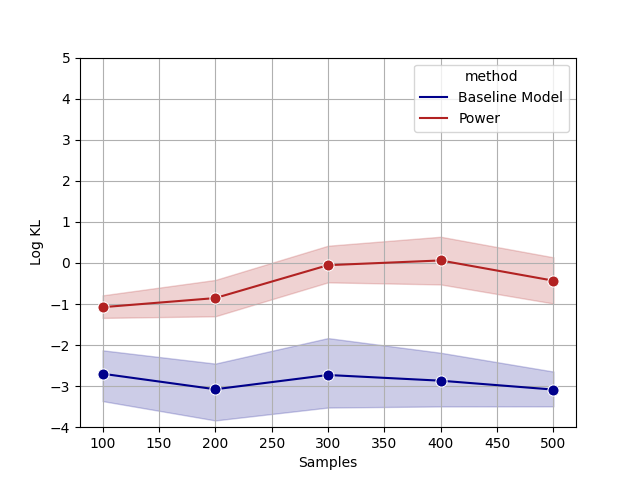
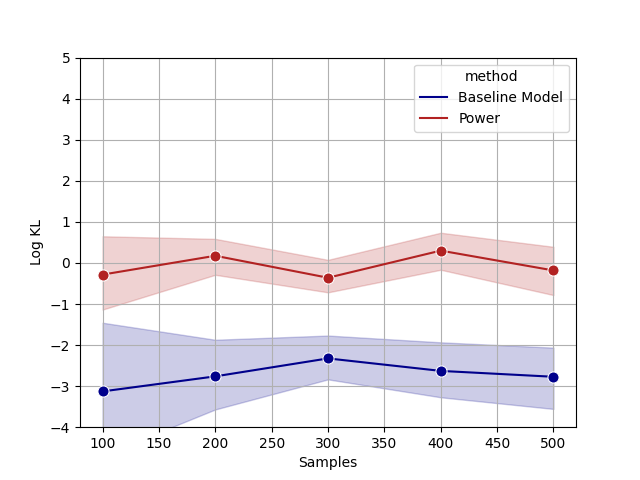
updated queueing and vpm
vpm - architecture changed - open to modifications

Changed region(s): [[0.1562, 0.4688, 0.875, 0.9062]]

diff --git a/queueing.py b/queueing.py
@@ -99,11 +99,12 @@ def ground_truth_queueing_stationary(qa, qf, max_state):
 '''
 
 def generate_plots(qa, qf, min_val, max_val, increment, runs, plot_name, constant_factor=40, run_biased=False):
-	_lambda = 1
+	np.random.seed(101)
+	_lambda = 10
 	M = 20
 	alpha_theta = 0.01
 	alpha_v = 0.01
-	beta1 = 0.5
+	beta1 = 0.999
 	T = 5
 	rho = (qa*(1-qf))/(qf*(1-qa))
 	B = int(np.ceil(constant_factor*rho))
@@ -118,7 +119,8 @@ def generate_plots(qa, qf, min_val, max_val, increment, runs, plot_name, constan
 			else:
 				state_seq, max_state = sample_nsteps(n=transition_samples, qa=qa, qf=qf)
 			D = np.array(state_seq)
-			tau = vpm.iterative_vpm(D, alpha_theta, alpha_v, T, M, B, _lambda, max_state, beta1)
+			tau = vpm.iterative_vpm(D, alpha_theta, alpha_v, T, M, B=B, _lambda=_lambda,
+						    		max_state=max_state, beta1=beta1)
 			estimated_vpm = vpm.get_density(tau, max_state)
 			# estimated_vpm = esd.estimate_stationary(D, max_state)
 
@@ -128,10 +130,10 @@ def generate_plots(qa, qf, min_val, max_val, increment, runs, plot_name, constan
 			true = ground_truth_queueing_stationary(qa, qf, max_state)
 			log_kl = np.log(scipy.stats.entropy(estimated, true))
 			log_kl_vpm = np.log(scipy.stats.entropy(estimated_vpm, true))
-			if (log_kl != float("inf") and log_kl_vpm != float("inf")):
+			if (log_kl not in {float("inf"),float("nan")} and not pd.isna(log_kl) and\
+	   			 log_kl_vpm not in {float("inf"), float("nan")} and not pd.isna(log_kl_vpm)):
 				num_runs+=1
 				print(f"On run {num_runs}")
-				#print(estimated, true)
 				log_kl_dict["method"].append("Baseline Model")
 				log_kl_dict["Samples"].append(transition_samples)
 				log_kl_dict["Log KL"].append(log_kl)
@@ -148,13 +150,14 @@ def generate_plots(qa, qf, min_val, max_val, increment, runs, plot_name, constan
 	fig.savefig(f"{plot_name}"+("_non_iid" if run_biased else "")+f"_states_{constant_factor}.png") 
 	
 def generate_plots_over_qf(qa, min_val, max_val,  runs, plot_name, constant_factor=40, run_biased=False):
+	np.random.seed(101)
 	log_kl_dict = {"method":[], "Prob": [], "Log KL":[]}
 	qfs = [np.round(min_val+(0.01)*i, 2) for i in range(int((max_val-min_val)/0.01 )+1)]
-	_lambda = 1
+	_lambda = 10
 	M = 20
 	alpha_theta = 0.01
 	alpha_v = 0.01
-	beta1 = 0.5
+	beta1 = 0.999
 	T = 5
 
 	for qf in qfs:
@@ -172,7 +175,7 @@ def generate_plots_over_qf(qa, min_val, max_val,  runs, plot_name, constant_fact
 				continue
 
 			D = np.array(state_seq)
-			tau = vpm.iterative_vpm(D, alpha_theta, alpha_v, T, M, B, _lambda, max_state, beta1)
+			tau = vpm.iterative_vpm(D, alpha_theta, alpha_v, T, M, B=B, _lambda=_lambda, max_state=max_state, beta1=beta1)
 			estimated_vpm = vpm.get_density(tau, max_state)
 
 			estimated = estimate_tabular_stationary(tabular_model, iters=200)
@@ -180,7 +183,8 @@ def generate_plots_over_qf(qa, min_val, max_val,  runs, plot_name, constant_fact
 			log_kl = np.log(scipy.stats.entropy(estimated, true))
 
 			log_kl_vpm = np.log(scipy.stats.entropy(estimated_vpm, true))
-			if (log_kl != float("inf") and log_kl_vpm != float("inf")):
+			if (log_kl not in {float("inf"),float("nan")} and not pd.isna(log_kl) and\
+	   			 log_kl_vpm not in {float("inf"), float("nan")} and not pd.isna(log_kl_vpm)):
 				num_runs+=1
 				print(f"On run {num_runs}")
 				log_kl_dict["method"].append("Baseline Model")
@@ -205,6 +209,7 @@ if __name__ == "__main__":
 	qf = 0.9
 
 	min_transitions, max_transitions = 100, 500
+	
 	runs = 10
 	"""	
 	sampled_transitions, max_state = sample_nsteps(n=2000, qa=qa, qf=qf)
@@ -220,25 +225,23 @@ if __name__ == "__main__":
 
 	print(log_kl)
 	"""
-
-	np.random.seed(101)
 	generate_plots(qa, qf, min_transitions, max_transitions, 100, runs, "figure2", constant_factor=40)
 	generate_plots_over_qf(qa, 0.82, 0.90, runs, "figure2_qf", constant_factor=40)
 	generate_plots(qa, qf, min_transitions, max_transitions, 100, runs, "figure2", run_biased=True,constant_factor=40)
 	generate_plots_over_qf(qa, 0.82, 0.90, runs, "figure2_qf", run_biased=True,constant_factor=40)
 
-	generate_plots(qa, qf, min_transitions, max_transitions, 100, runs, "figure2", constant_factor=30)
-	generate_plots_over_qf(qa, 0.82, 0.90, runs, "figure2_qf", constant_factor=30)
-	generate_plots(qa, qf, min_transitions, max_transitions, 100, runs, "figure2", run_biased=True,constant_factor=30)
-	generate_plots_over_qf(qa, 0.82, 0.90, runs, "figure2_qf", run_biased=True,constant_factor=30)
+	# generate_plots(qa, qf, min_transitions, max_transitions, 100, runs, "figure2", constant_factor=30)
+	# generate_plots_over_qf(qa, 0.82, 0.90, runs, "figure2_qf", constant_factor=30)
+	# generate_plots(qa, qf, min_transitions, max_transitions, 100, runs, "figure2", run_biased=True,constant_factor=30)
+	# generate_plots_over_qf(qa, 0.82, 0.90, runs, "figure2_qf", run_biased=True,constant_factor=30)
 
-	generate_plots(qa, qf, min_transitions, max_transitions, 100, runs, "figure2", constant_factor=20)
-	generate_plots_over_qf(qa, 0.82, 0.90, runs, "figure2_qf", constant_factor=20)
-	generate_plots(qa, qf, min_transitions, max_transitions, 100, runs, "figure2", run_biased=True,constant_factor=20)
-	generate_plots_over_qf(qa, 0.82, 0.90, runs, "figure2_qf", run_biased=True,constant_factor=20)
+	# generate_plots(qa, qf, min_transitions, max_transitions, 100, runs, "figure2", constant_factor=20)
+	# generate_plots_over_qf(qa, 0.82, 0.90, runs, "figure2_qf", constant_factor=20)
+	# generate_plots(qa, qf, min_transitions, max_transitions, 100, runs, "figure2", run_biased=True,constant_factor=20)
+	# generate_plots_over_qf(qa, 0.82, 0.90, runs, "figure2_qf", run_biased=True,constant_factor=20)
 
-	generate_plots(qa, qf, min_transitions, max_transitions, 100, runs, "figure2", constant_factor=10)
-	generate_plots_over_qf(qa, 0.82, 0.90, runs, "figure2_qf", constant_factor=10)
-	generate_plots(qa, qf, min_transitions, max_transitions, 100, runs, "figure2", run_biased=True,constant_factor=10)
-	generate_plots_over_qf(qa, 0.82, 0.90, runs, "figure2_qf", run_biased=True,constant_factor=10)
+	# generate_plots(qa, qf, min_transitions, max_transitions, 100, runs, "figure2", constant_factor=10)
+	# generate_plots_over_qf(qa, 0.82, 0.90, runs, "figure2_qf", constant_factor=10)
+	# generate_plots(qa, qf, min_transitions, max_transitions, 100, runs, "figure2", run_biased=True,constant_factor=10)
+	# generate_plots_over_qf(qa, 0.82, 0.90, runs, "figure2_qf", run_biased=True,constant_factor=10)
 	

diff --git a/vpm.py b/vpm.py
@@ -8,26 +8,32 @@ import queueing
 (1) Implement variational power method based on paper
 '''
 
+# 
+
 class Tau(nn.Module):
 	def __init__(self, total_states):
 		super().__init__()
 		# 4 hidden layers
 
 		self.model = nn.Sequential(
-			nn.Linear(total_states, 128),
+			nn.Linear(total_states, 32),
 			nn.ReLU(),
-			nn.Linear(128, 128),
+			nn.Linear(32, 16),
 			nn.ReLU(),
-            nn.Linear(128, 128),
+            nn.Linear(16, 32),
 			nn.ReLU()
 		)
-		self.output_layer = nn.Sequential(nn.Linear(128, 1),
+		# experimenting with different initializations - He initialization
+		for i in range(0,len(self.model),2):
+			nn.init.kaiming_normal_(self.model[i].weight, mode='fan_in', nonlinearity='relu')
+			nn.init.zeros_(self.model[i].bias)
+		
+		self.output_layer = nn.Sequential(nn.Linear(32, 1),
 										  nn.Softplus())
 	def forward(self, x):
 		x = self.model(x)
 		x = self.output_layer(x)
 		return x
-
 
 
 # based on paper and built off of https://github.com/bmazoure/batch_stationary_distribution
@@ -43,9 +49,8 @@ def iterative_vpm(D, alpha_theta, alpha_v, power_steps, M, B, _lambda, max_state
 	optim_v = torch.optim.Adam([v], lr = alpha_v)
 
 	for t in range(power_steps):
-		# print(f"Power step {t+1}")
 		alpha_t = 1/np.sqrt(t+1)
-		for _ in range(M):
+		for i in range(M):
 			# fit transition data
 			x = []
 			x_star = []
@@ -89,14 +94,10 @@ def iterative_vpm(D, alpha_theta, alpha_v, power_steps, M, B, _lambda, max_state
 					tiled_tau_t_x =  tau_t_x.repeat(1,grad_theta_tau_xstar_mat.shape[1])
 					tiled_tau_t_xstar =  tau_t_xstar.repeat(1,grad_theta_tau_xstar_mat.shape[1])
 
-				# tiled_tau_xstar = tau_xstar.tile((grad_theta_tau_xstar_mat.shape[0], ))
-				# tiled_tau_t_xstar = tau_t_xstar.tile((grad_theta_tau_xstar_mat.shape[0],))
-				# tiled_tau_t_x = tau_t_x.tile((grad_theta_tau_xstar_mat.shape[0],))
-				# print(tiled_tau_xstar.shape, grad_theta_tau_xstar_mat.shape)
 				grad_J_theta = (tiled_tau_xstar * grad_theta_tau_xstar_mat).mean(0) 
 				grad_J_theta -= (1 - alpha_t) * (tiled_tau_t_xstar * grad_theta_tau_xstar_mat).mean(0) 
 				grad_J_theta -= alpha_t * (tiled_tau_t_x * grad_theta_tau_xstar_mat).mean(0)
-				grad_J_theta += v*grad_theta_tau_x_mat.mean(0)
+				grad_J_theta += v*(grad_theta_tau_x_mat.mean(0))
 				param[1].grad = grad_J_theta
 			
 			grad_v = ((tau_x).mean(dim=0)-1-_lambda*v)
@@ -120,6 +121,8 @@ def get_density(tau, max_state):
 		density_ratios.append(tau(torch.FloatTensor([[1 if i == idx else 0 for i in range(max_state+1)]])).detach().cpu().item())
 	density_ratios = np.array(density_ratios)
 	return density_ratios/np.sum(density_ratios)
+
+
 
 
 
